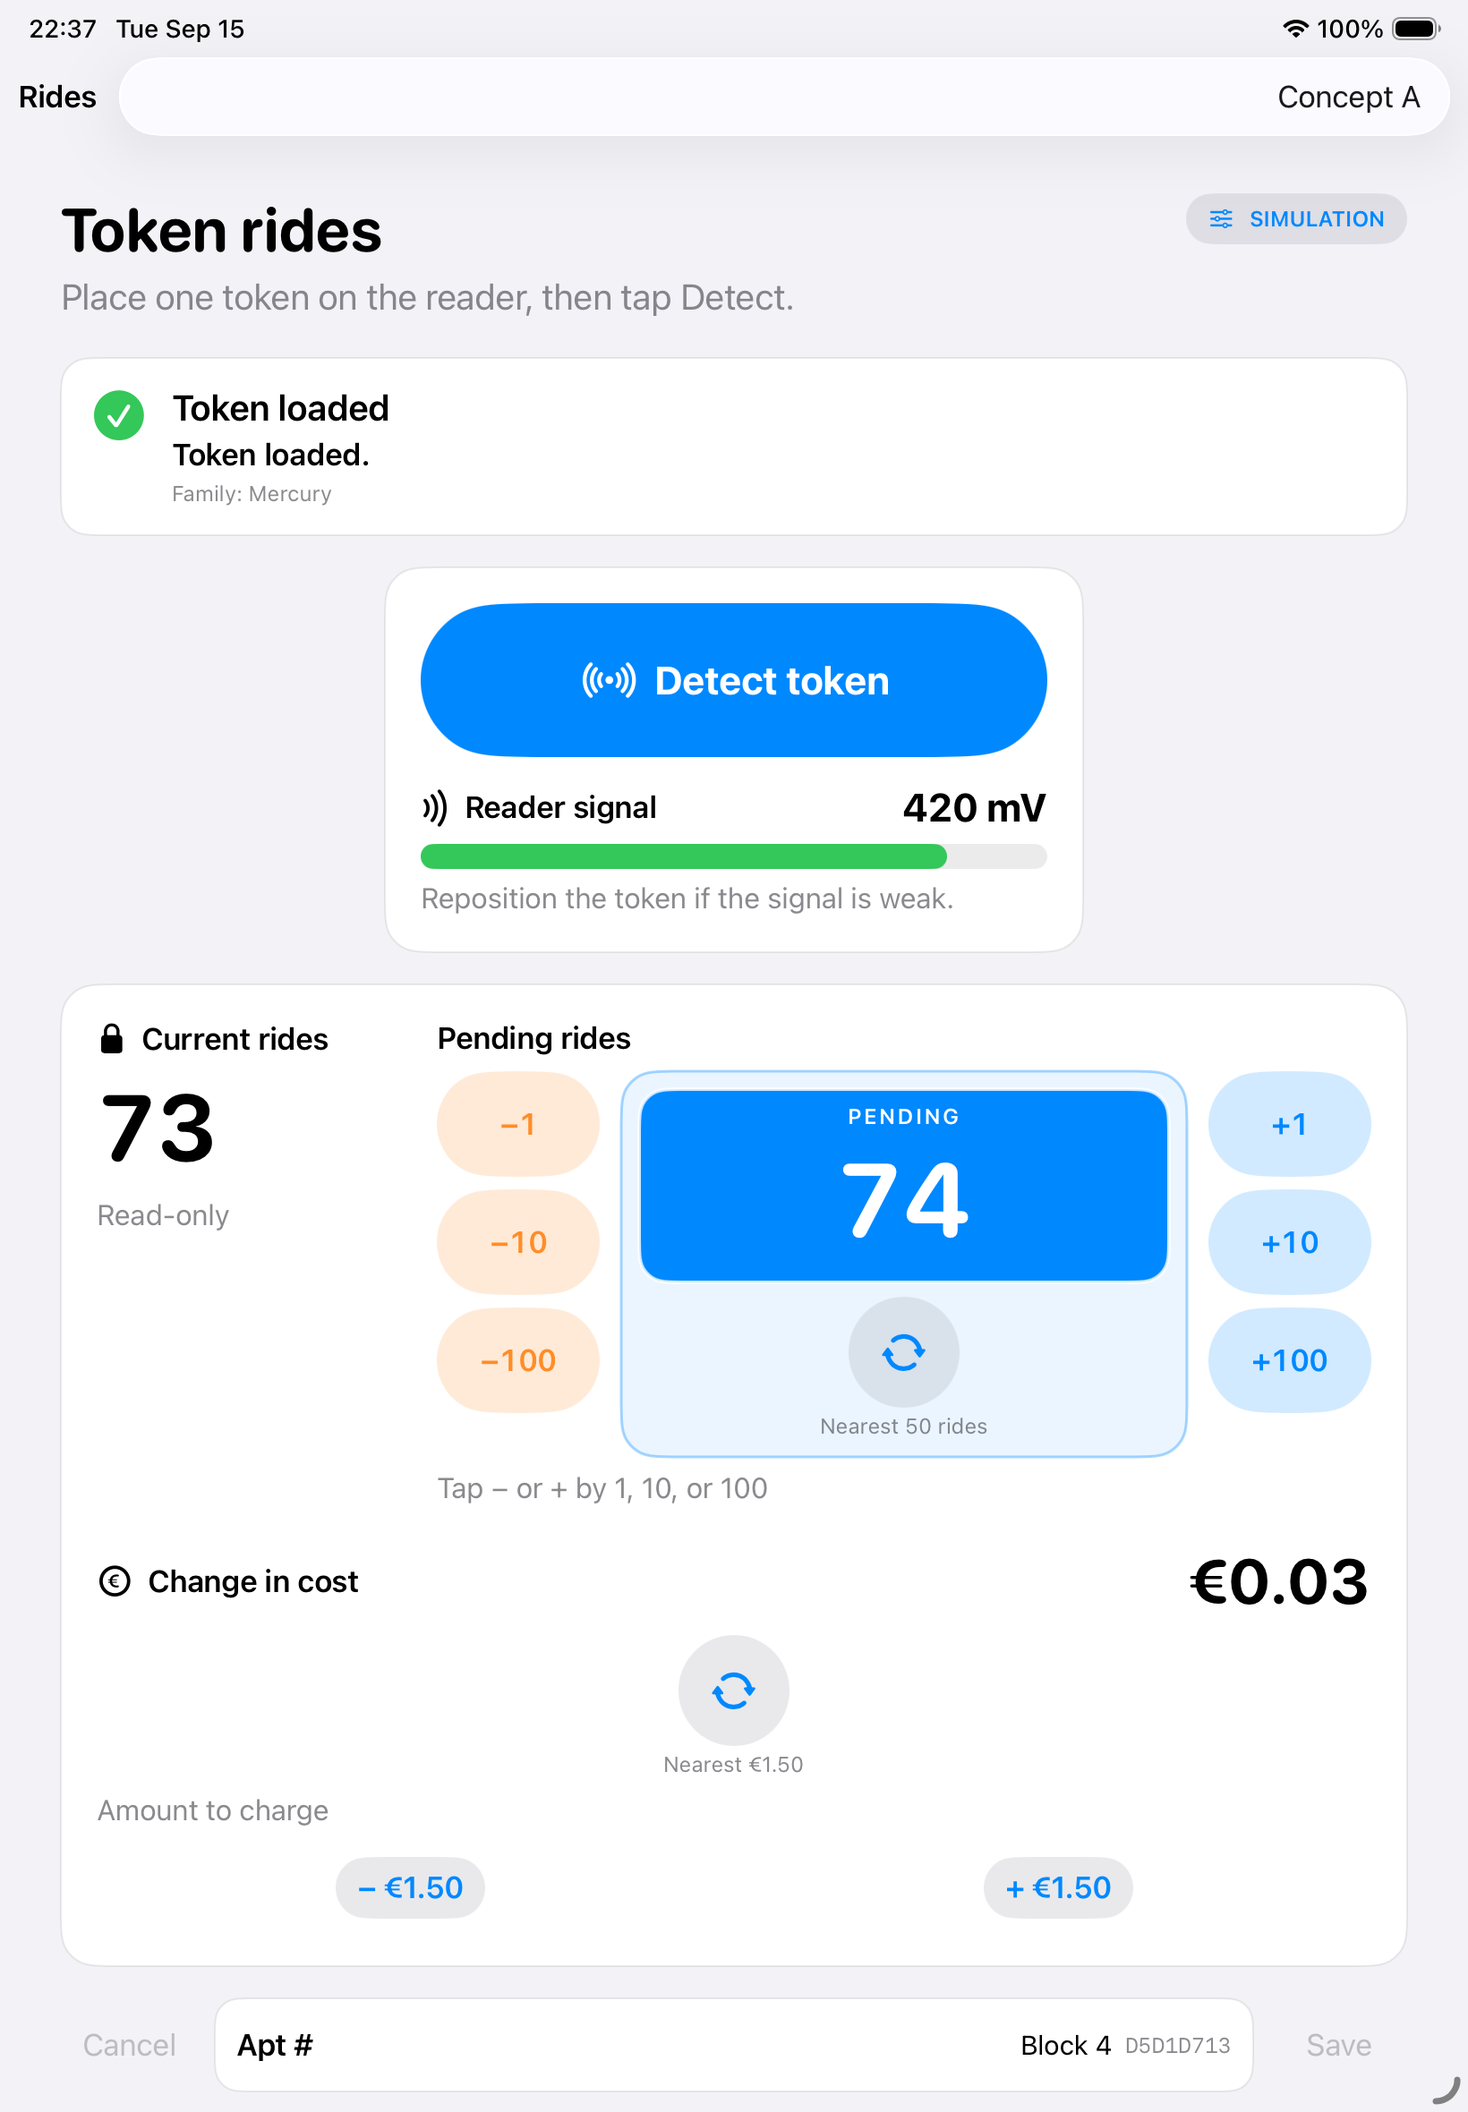
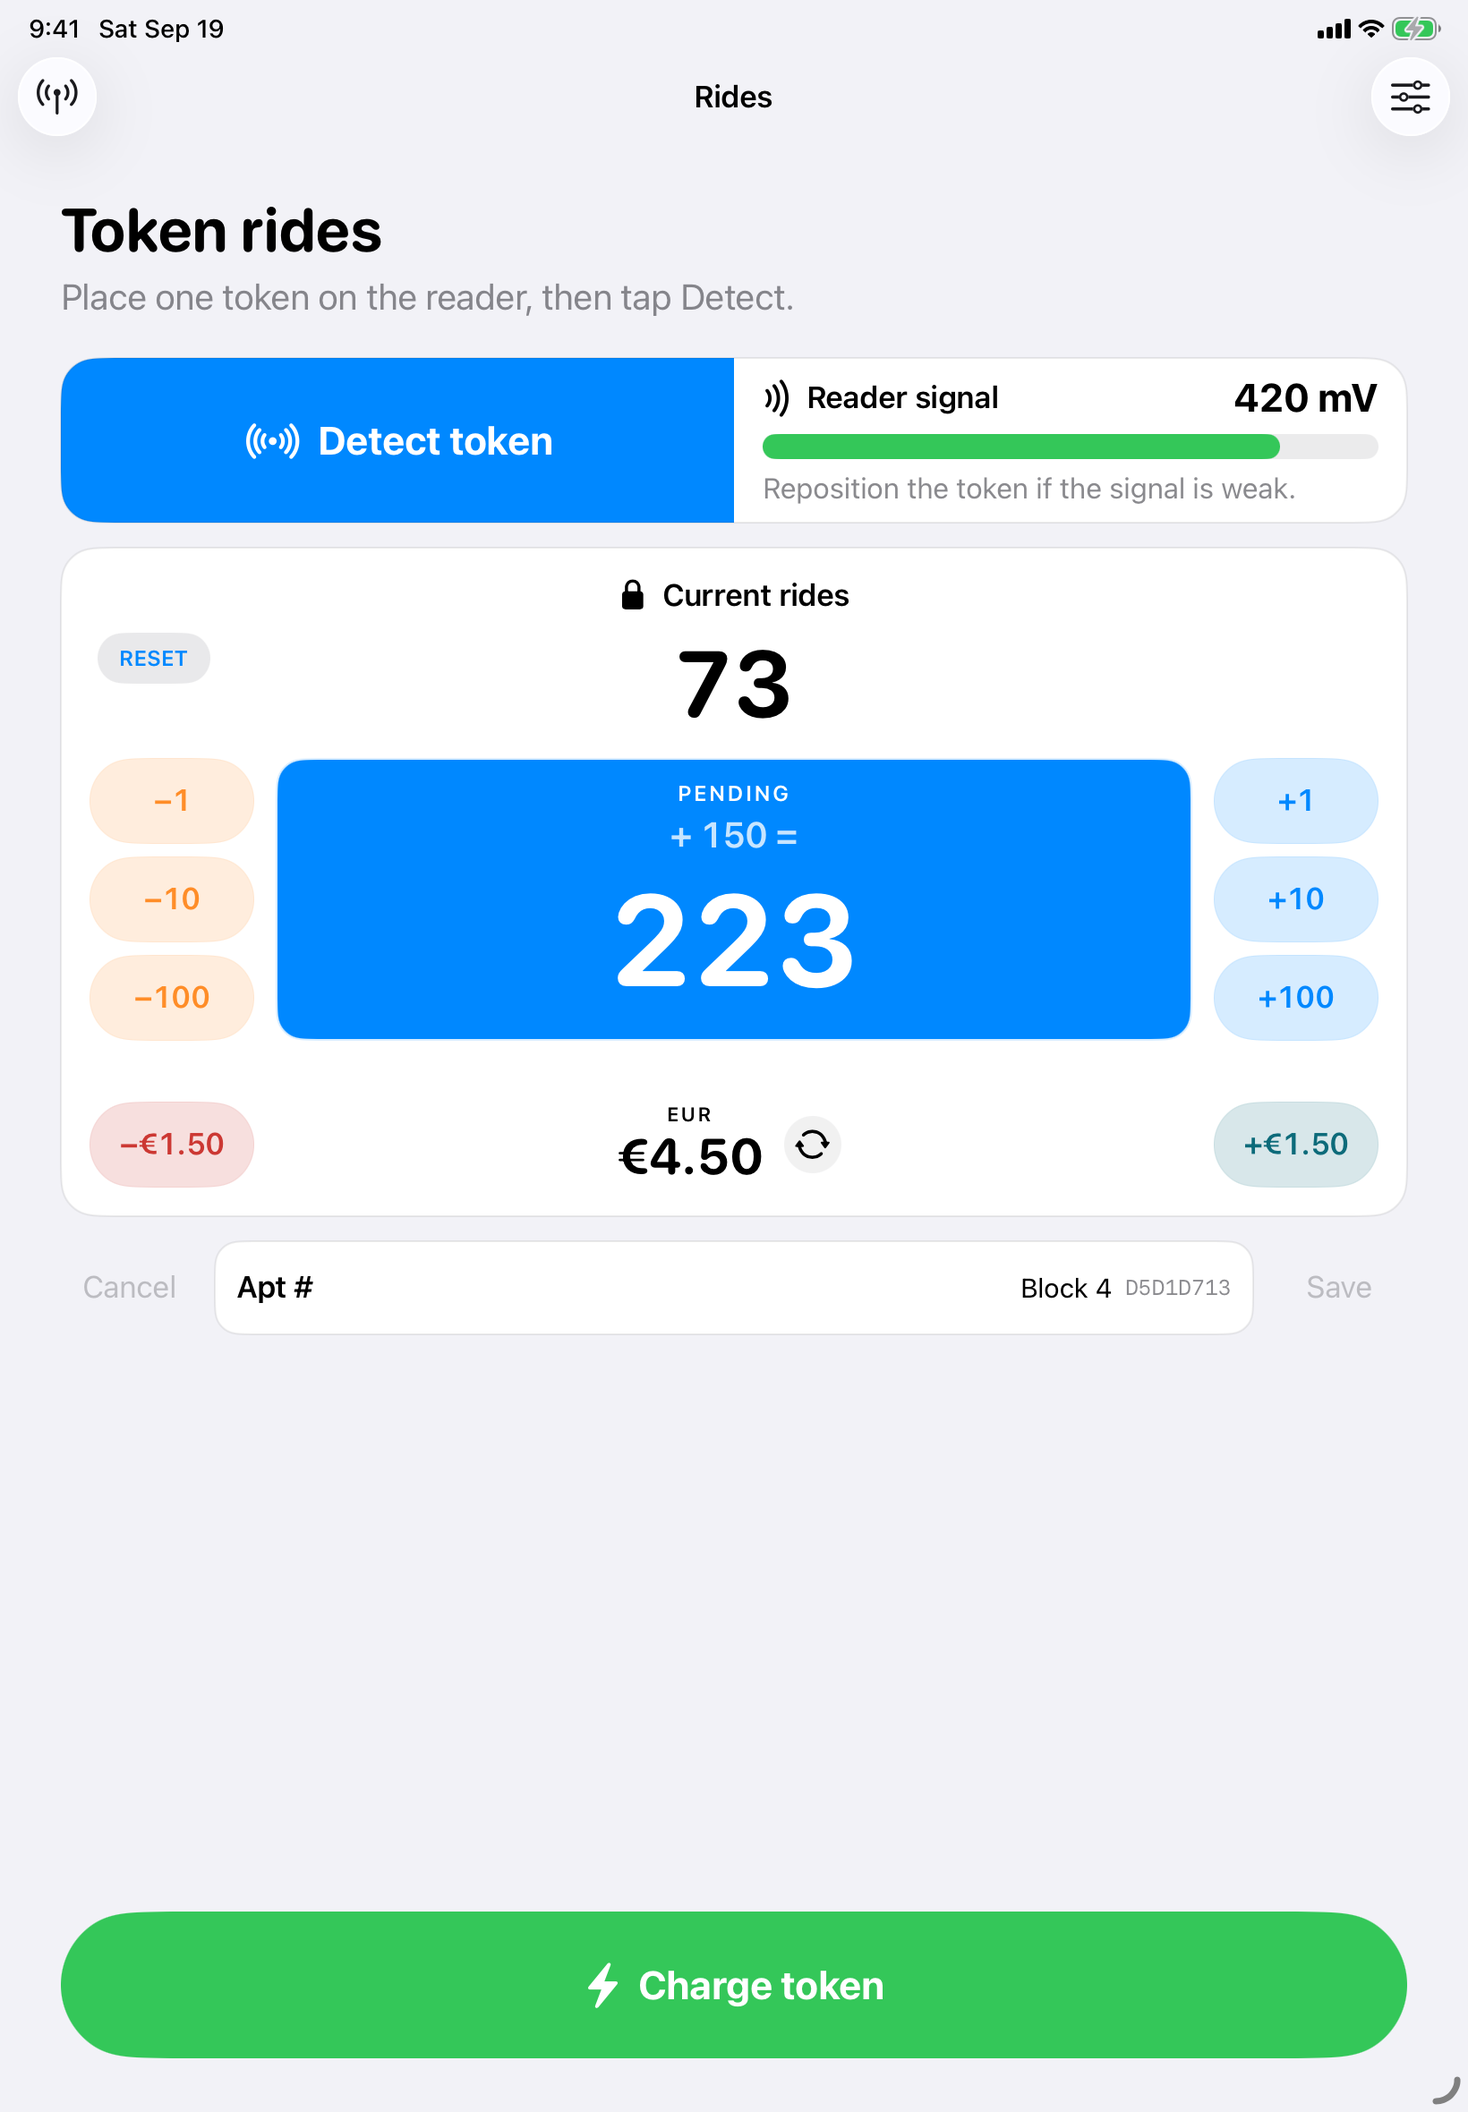
Refresh Concept A simulator screenshots and DEBUG launch helpers.
Add RIDES_SIMULATOR_FAKE_READER and RIDES_SCREENSHOT_SCENE so the iPad Air 4 simulator can auto-enter FakeProxmark scenes for repeatable PNG captures without bridge hardware.

diff --git a/RidesTablet/Views/BridgeConnectionView.swift b/RidesTablet/Views/BridgeConnectionView.swift
@@ -8,6 +8,8 @@ public struct BridgeConnectionLaunchConfiguration: Equatable, Sendable {
     public static let noChipDetectEnvironmentKey = "RIDES_NOCHIP_DETECT"
     public static let unknownDetectEnvironmentKey = "RIDES_UNKNOWN_DETECT"
     public static let bridgeUnavailableDetectEnvironmentKey = "RIDES_BRIDGE_UNAVAILABLE_DETECT"
+    public static let simulatorFakeReaderEnvironmentKey = "RIDES_SIMULATOR_FAKE_READER"
+    public static let screenshotSceneEnvironmentKey = "RIDES_SCREENSHOT_SCENE"
 
     public let addressOverride: String?
     public let physicalAcceptanceEnabled: Bool
@@ -16,6 +18,8 @@ public struct BridgeConnectionLaunchConfiguration: Equatable, Sendable {
     public let noChipDetectEnabled: Bool
     public let unknownDetectEnabled: Bool
     public let bridgeUnavailableDetectEnabled: Bool
+    public let simulatorFakeReaderEnabled: Bool
+    public let screenshotScene: SimulatorScreenshotScene?
 
     public init(
         addressOverride: String? = nil,
@@ -24,7 +28,9 @@ public struct BridgeConnectionLaunchConfiguration: Equatable, Sendable {
         slice5ConceptASmokeEnabled: Bool = false,
         noChipDetectEnabled: Bool = false,
         unknownDetectEnabled: Bool = false,
-        bridgeUnavailableDetectEnabled: Bool = false
+        bridgeUnavailableDetectEnabled: Bool = false,
+        simulatorFakeReaderEnabled: Bool = false,
+        screenshotScene: SimulatorScreenshotScene? = nil
     ) {
         self.addressOverride = addressOverride
         self.physicalAcceptanceEnabled = physicalAcceptanceEnabled
@@ -33,6 +39,8 @@ public struct BridgeConnectionLaunchConfiguration: Equatable, Sendable {
         self.noChipDetectEnabled = noChipDetectEnabled
         self.unknownDetectEnabled = unknownDetectEnabled
         self.bridgeUnavailableDetectEnabled = bridgeUnavailableDetectEnabled
+        self.simulatorFakeReaderEnabled = simulatorFakeReaderEnabled
+        self.screenshotScene = screenshotScene
     }
 
     public init(environment: [String: String]) {
@@ -43,7 +51,9 @@ public struct BridgeConnectionLaunchConfiguration: Equatable, Sendable {
             slice5ConceptASmokeEnabled: environment[Self.slice5ConceptASmokeEnvironmentKey] == "1",
             noChipDetectEnabled: environment[Self.noChipDetectEnvironmentKey] == "1",
             unknownDetectEnabled: environment[Self.unknownDetectEnvironmentKey] == "1",
-            bridgeUnavailableDetectEnabled: environment[Self.bridgeUnavailableDetectEnvironmentKey] == "1"
+            bridgeUnavailableDetectEnabled: environment[Self.bridgeUnavailableDetectEnvironmentKey] == "1",
+            simulatorFakeReaderEnabled: environment[Self.simulatorFakeReaderEnvironmentKey] == "1",
+            screenshotScene: SimulatorScreenshotScene.parse(environment[Self.screenshotSceneEnvironmentKey])
         )
     }
 
@@ -55,7 +65,9 @@ public struct BridgeConnectionLaunchConfiguration: Equatable, Sendable {
             slice5ConceptASmokeEnabled: environmentLookup(Self.slice5ConceptASmokeEnvironmentKey) == "1",
             noChipDetectEnabled: environmentLookup(Self.noChipDetectEnvironmentKey) == "1",
             unknownDetectEnabled: environmentLookup(Self.unknownDetectEnvironmentKey) == "1",
-            bridgeUnavailableDetectEnabled: environmentLookup(Self.bridgeUnavailableDetectEnvironmentKey) == "1"
+            bridgeUnavailableDetectEnabled: environmentLookup(Self.bridgeUnavailableDetectEnvironmentKey) == "1",
+            simulatorFakeReaderEnabled: environmentLookup(Self.simulatorFakeReaderEnvironmentKey) == "1",
+            screenshotScene: SimulatorScreenshotScene.parse(environmentLookup(Self.screenshotSceneEnvironmentKey))
         )
     }
 
@@ -74,6 +86,8 @@ public struct BridgeConnectionView: View {
     public static let noChipDetectEnvironmentKey = BridgeConnectionLaunchConfiguration.noChipDetectEnvironmentKey
     public static let unknownDetectEnvironmentKey = BridgeConnectionLaunchConfiguration.unknownDetectEnvironmentKey
     public static let bridgeUnavailableDetectEnvironmentKey = BridgeConnectionLaunchConfiguration.bridgeUnavailableDetectEnvironmentKey
+    public static let simulatorFakeReaderEnvironmentKey = BridgeConnectionLaunchConfiguration.simulatorFakeReaderEnvironmentKey
+    public static let screenshotSceneEnvironmentKey = BridgeConnectionLaunchConfiguration.screenshotSceneEnvironmentKey
 
     @StateObject private var model: BridgeConnectionModel
     @State private var pin = ""
@@ -94,14 +108,14 @@ public struct BridgeConnectionView: View {
     ) {
         _model = StateObject(wrappedValue: BridgeConnectionModel())
         self.scannerCoordinator = scannerCoordinator ?? NativeBridgePairingScannerCoordinator()
+        let addressOverride = environmentLookup()
         launchConfiguration = BridgeConnectionLaunchConfiguration(
-            addressOverride: environmentLookup(),
-            physicalAcceptanceEnabled: ProcessInfo.processInfo.environment[BridgeConnectionLaunchConfiguration.physicalAcceptanceEnvironmentKey] == "1",
-            slice4PhysicalAcceptanceEnabled: ProcessInfo.processInfo.environment[BridgeConnectionLaunchConfiguration.slice4PhysicalAcceptanceEnvironmentKey] == "1",
-            slice5ConceptASmokeEnabled: ProcessInfo.processInfo.environment[BridgeConnectionLaunchConfiguration.slice5ConceptASmokeEnvironmentKey] == "1",
-            noChipDetectEnabled: ProcessInfo.processInfo.environment[BridgeConnectionLaunchConfiguration.noChipDetectEnvironmentKey] == "1",
-            unknownDetectEnabled: ProcessInfo.processInfo.environment[BridgeConnectionLaunchConfiguration.unknownDetectEnvironmentKey] == "1",
-            bridgeUnavailableDetectEnabled: ProcessInfo.processInfo.environment[BridgeConnectionLaunchConfiguration.bridgeUnavailableDetectEnvironmentKey] == "1"
+            environmentLookup: { key in
+                if key == BridgeConnectionLaunchConfiguration.addressOverrideEnvironmentKey {
+                    return addressOverride
+                }
+                return ProcessInfo.processInfo.environment[key]
+            }
         )
     }
 

diff --git a/RidesTablet/Views/RidesRootView.swift b/RidesTablet/Views/RidesRootView.swift
@@ -1,5 +1,20 @@
 import SwiftUI
 
+public enum SimulatorScreenshotScene: String, Equatable, Sendable {
+    case known
+    case pending
+    case reset
+    case unknown
+    case noChip = "no-chip"
+
+    public static func parse(_ rawValue: String?) -> Self? {
+        guard let rawValue else { return nil }
+        let normalized = rawValue.trimmingCharacters(in: .whitespacesAndNewlines).lowercased()
+        if normalized == "nochip" { return .noChip }
+        return Self(rawValue: normalized)
+    }
+}
+
 /// Owns connection state separately from token state and routes the operator
 /// into Concept A once an authenticated bridge client is ready.
 @MainActor
@@ -38,7 +53,18 @@ struct RidesRootView: View {
             connection.restore()
             await connection.applyLaunchAddressOverride(launchConfiguration.addressOverride)
             await connection.startAutomaticBonjourReconnect()
+#if DEBUG
+            if launchConfiguration.simulatorFakeReaderEnabled {
+                bootstrapSimulatorFakeReader()
+                if let scene = launchConfiguration.screenshotScene, let ridesModel {
+                    await applySimulatorScreenshotScene(scene, to: ridesModel)
+                }
+            } else {
+                refreshOperatorWorkflow()
+            }
+#else
             refreshOperatorWorkflow()
+#endif
 #if DEBUG
             if launchConfiguration.physicalAcceptanceEnabled {
                 await connection.runLaunchPhysicalAcceptanceIfRequested()
@@ -156,4 +182,30 @@ struct RidesRootView: View {
             ridesModel = RidesViewModel(device: device, configuration: .load())
         }
     }
+
+#if DEBUG
+    private func bootstrapSimulatorFakeReader() {
+        usesFakeReader = true
+        ridesModel = RidesViewModel(device: FakeProxmark(), configuration: .load())
+    }
+
+    private func applySimulatorScreenshotScene(_ scene: SimulatorScreenshotScene, to model: RidesViewModel) async {
+        switch scene {
+        case .known:
+            await model.detect()
+        case .pending:
+            await model.detect()
+            model.adjustRides(by: 150)
+        case .reset:
+            await model.detect()
+            model.openReset()
+        case .unknown:
+            model.selectSimulation(.unknownFamily)
+            await model.detect()
+        case .noChip:
+            model.selectSimulation(.noChip)
+            await model.detect()
+        }
+    }
+#endif
 }

diff --git a/RidesTabletTests/ConceptAPhysicalSmokeCoordinatorTests.swift b/RidesTabletTests/ConceptAPhysicalSmokeCoordinatorTests.swift
@@ -26,6 +26,40 @@ final class ConceptAPhysicalSmokeCoordinatorTests: XCTestCase {
         ]).bridgeUnavailableDetectEnabled)
     }
 
+    func testLaunchConfigurationUsesExactSimulatorFakeReaderKeyAndValue() {
+        let enabled = BridgeConnectionLaunchConfiguration(environment: [
+            "RIDES_SIMULATOR_FAKE_READER": "1"
+        ])
+        XCTAssertTrue(enabled.simulatorFakeReaderEnabled)
+        XCTAssertFalse(BridgeConnectionLaunchConfiguration(environment: [
+            "RIDES_SIMULATOR_FAKE_READER": "true"
+        ]).simulatorFakeReaderEnabled)
+    }
+
+    func testLaunchConfigurationParsesScreenshotSceneValues() {
+        XCTAssertEqual(
+            BridgeConnectionLaunchConfiguration(environment: [
+                "RIDES_SCREENSHOT_SCENE": "pending"
+            ]).screenshotScene,
+            .pending
+        )
+        XCTAssertEqual(
+            BridgeConnectionLaunchConfiguration(environment: [
+                "RIDES_SCREENSHOT_SCENE": "no-chip"
+            ]).screenshotScene,
+            .noChip
+        )
+        XCTAssertEqual(
+            BridgeConnectionLaunchConfiguration(environment: [
+                "RIDES_SCREENSHOT_SCENE": "nochip"
+            ]).screenshotScene,
+            .noChip
+        )
+        XCTAssertNil(BridgeConnectionLaunchConfiguration(environment: [
+            "RIDES_SCREENSHOT_SCENE": "invalid"
+        ]).screenshotScene)
+    }
+
     func testSmokePassesForNonVenusRegisteredToken() async {
         let token = Token.sample(rideCount: 500, sequence: .nix)
         let fake = ConceptAPhysicalSmokeFakeDevice(token: token, signalMillivolts: 46354)

diff --git a/RidesTablet/README.md b/RidesTablet/README.md
@@ -1,6 +1,6 @@
 # RidesTablet
 
-An iPad-only SwiftUI operator app for non-technical token operators. It targets iPad Air 4 and runs **Concept A** as the normal workflow: pair to a Mac `RidesBridge` over local Wi‑Fi/hotspot, then Detect / Charge / Reset through `NetworkRideTokenDevice`. A DEBUG-only “Use simulator fake reader” toggle keeps `FakeProxmark` available for deterministic UI work without a Mac.
+An iPad-only SwiftUI operator app for non-technical token operators. It targets iPad Air 4 and runs **Concept A** as the normal workflow: pair to a Mac `RidesBridge` over local Wi‑Fi/hotspot, then Detect / Charge / Reset through `NetworkRideTokenDevice`. A DEBUG-only fake reader keeps `FakeProxmark` available for deterministic UI work and simulator screenshots without a Mac or PM3.
 
 ## Operator flow
 
@@ -14,6 +14,35 @@ An iPad-only SwiftUI operator app for non-technical token operators. It targets 
 The compact Apt # control row keeps disabled Cancel on the left and disabled Save on the right, with the read-only Block 4 value in the middle. Portrait uses the seamless Detect/signal strip, centered Current → PENDING → EUR controls, Apt row, and large Charge action. Landscape switches to a two-column reader/Apt and count/status layout, with Charge pinned below the right column.
 
 Connection diagnostics (Bonjour browse, manual URL, block-5 connectivity probe) live in the settings sheet and do not duplicate Concept A business logic.
+
+## Screenshots (Concept A, iPad Air 4 simulator)
+
+The images below were captured on the **RidesTablet iPad Air 4** simulator using the DEBUG `FakeProxmark` path (`RIDES_SIMULATOR_FAKE_READER=1`). They show current Concept A operator UI, not the older diagnostic-only root or physical PM3 hardware.
+
+| Scene | Caption |
+| --- | --- |
+| ![Known token after Detect](Screenshots/rides-layout.png) | Known Mercury token after Detect — current rides, pending (unchanged), EUR, and reader signal. |
+| ![Pending rides adjusted](Screenshots/pending-rides.png) | Pending rides increased by 150 (`+ 150 =`) with matching EUR delta. |
+| ![Reset profile sheet](Screenshots/reset-sheet.png) | Reset sheet — profile grid with no selection until the operator taps one. |
+| ![Unknown family logged](Screenshots/unknown-token.png) | Unknown family after Detect — `Unknown, logged` and dump filename. |
+| ![No chip detected](Screenshots/no-chip.png) | No-chip status when nothing is on the reader. |
+
+### Simulator screenshot launch (DEBUG only)
+
+For repeatable captures without tapping through the connection gate:
+
+```sh
+# Boot the agreed simulator (UDID from `xcrun simctl list`)
+xcrun simctl boot "RidesTablet iPad Air 4"
+
+# Build Debug, install, then launch with FakeProxmark auto-enabled.
+# Use SIMCTL_CHILD_ prefix so simctl passes env vars into the app process.
+SIMCTL_CHILD_RIDES_SIMULATOR_FAKE_READER=1 \
+SIMCTL_CHILD_RIDES_SCREENSHOT_SCENE=known \
+  xcrun simctl launch --terminate-running-process <UDID> com.example.RidesTablet
+```
+
+`RIDES_SCREENSHOT_SCENE` accepts `known`, `pending`, `reset`, `unknown`, and `no-chip` (alias `nochip`). Each scene runs Detect (and opens the reset sheet or adjusts pending where needed) before you capture with `xcrun simctl io <UDID> screenshot path.png`.
 
 ## Simulation scenarios (DEBUG fake reader only)
 
@@ -32,4 +61,4 @@ xcodebuild test \
   -destination 'platform=iOS Simulator,name=RidesTablet iPad Air 4'
 ```
 
-For a local UI review, launch the app on the same iPad Air (4th generation) simulator. Use the DEBUG fake reader for offline UI work, or run `RidesBridge` on a Mac (`dotnet run --project RidesBridge/RidesBridge.csproj -- --fake-pm3`) for network integration testing.
+For a local UI review, launch the app on the same iPad Air (4th generation) simulator. Use the DEBUG fake reader (`RIDES_SIMULATOR_FAKE_READER=1` or the in-app **Use simulator fake reader** button) for offline UI work, or run `RidesBridge` on a Mac (`dotnet run --project RidesBridge/RidesBridge.csproj -- --fake-pm3`) for network integration testing.

diff --git a/.plans/ipad-mac-pm3-bridge-plan.md b/.plans/ipad-mac-pm3-bridge-plan.md
@@ -974,7 +974,7 @@ Names and exact method grouping may evolve, but the domain/view model must not d
   - [ ] network loss after server accepted a write, followed by required refresh — **blocked without iPad**.
 - [x] Confirm known read/write paths did not issue a full dump.
 - [x] Deferred: confirm the black card's final state on real Proxmark3 hardware (2026-09-18; nix @ 500 rides — see Final validation notes; blocks 1..6 restored).
-- [ ] Capture Concept A screenshots on the physical iPad or agreed iPad Air 4 simulator after fake-pm3 smoke — **blocked without iPad**.
+- [x] Capture Concept A screenshots on the physical iPad or agreed iPad Air 4 simulator after fake-pm3 smoke — **done on iPad Air 4 simulator** via DEBUG `RIDES_SIMULATOR_FAKE_READER=1` + `RIDES_SCREENSHOT_SCENE` (`rides-layout`, `pending-rides`, `reset-sheet`, `unknown-token`, `no-chip` under `RidesTablet/Screenshots/`; not physical PM3).
 
 ## Acceptance
 
